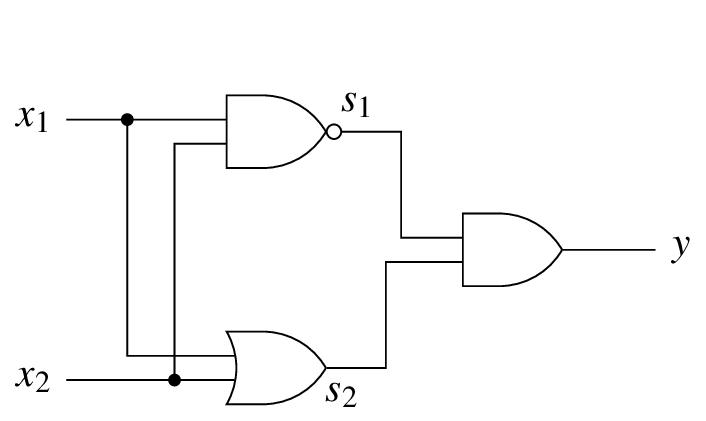
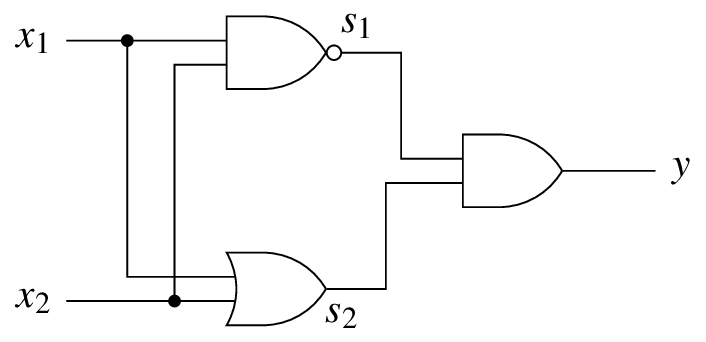
update

diff --git a/circuits/xor.tex b/circuits/xor.tex
@@ -14,7 +14,7 @@
     \draw (2,0) node (f2) [or gate] {};
     \draw (4,1) node (f3) [and gate] {};
 
-    \draw[opacity=0] (0,0) -- (0,3) node (y axis) {};
+    \draw[opacity=0] (0,0) -- (up:1cm) node (y axis) {};
     \draw (f1.input 1 -| y axis) node (x1) {$x_1$};
     \draw (f2.input 2 -| y axis) node (x2) {$x_2$};
     \draw (f3.output) ++(1,0) node (y) {$y$};
